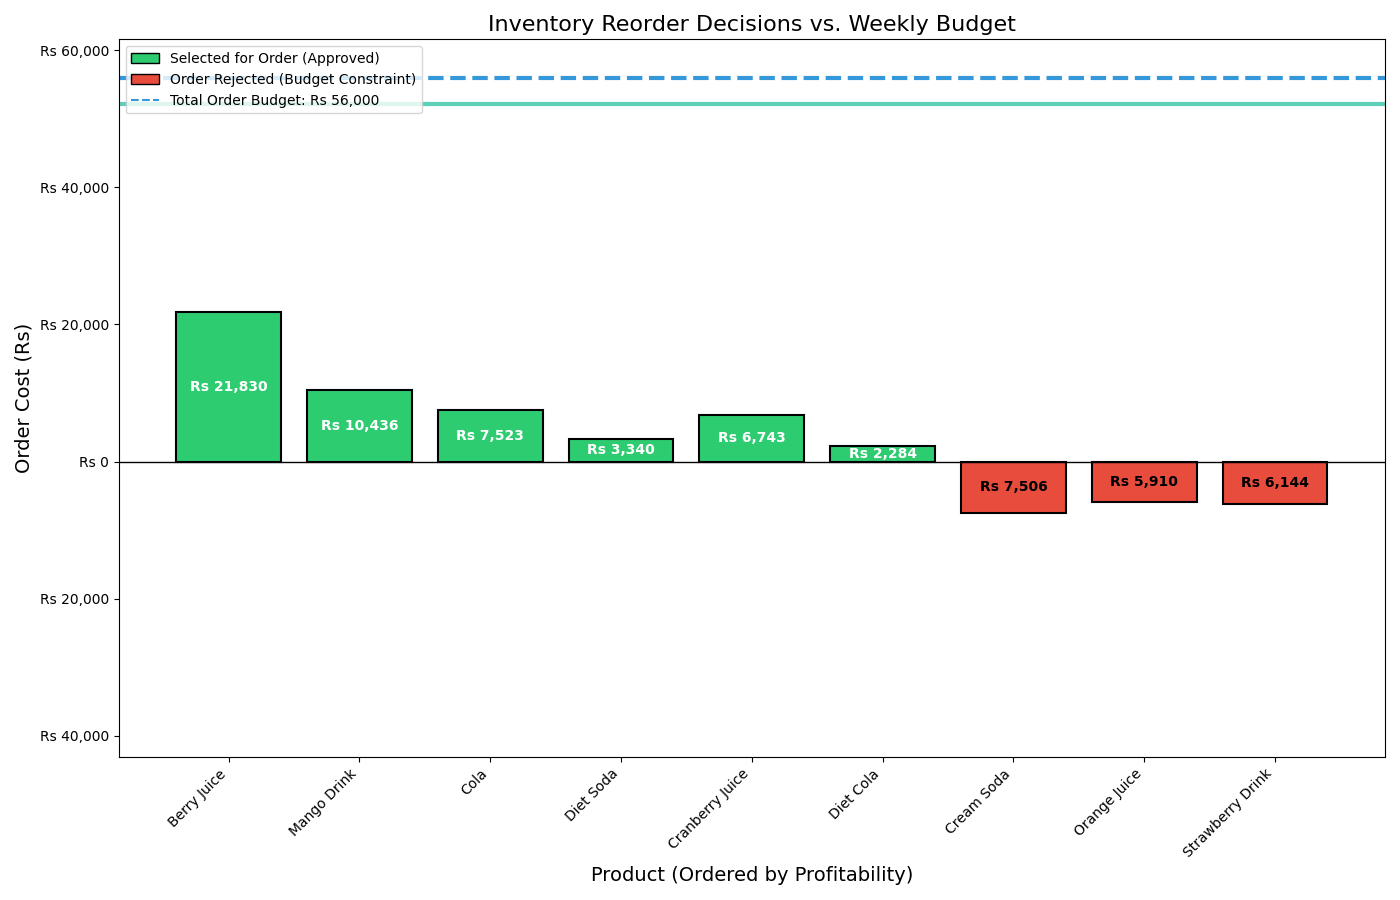
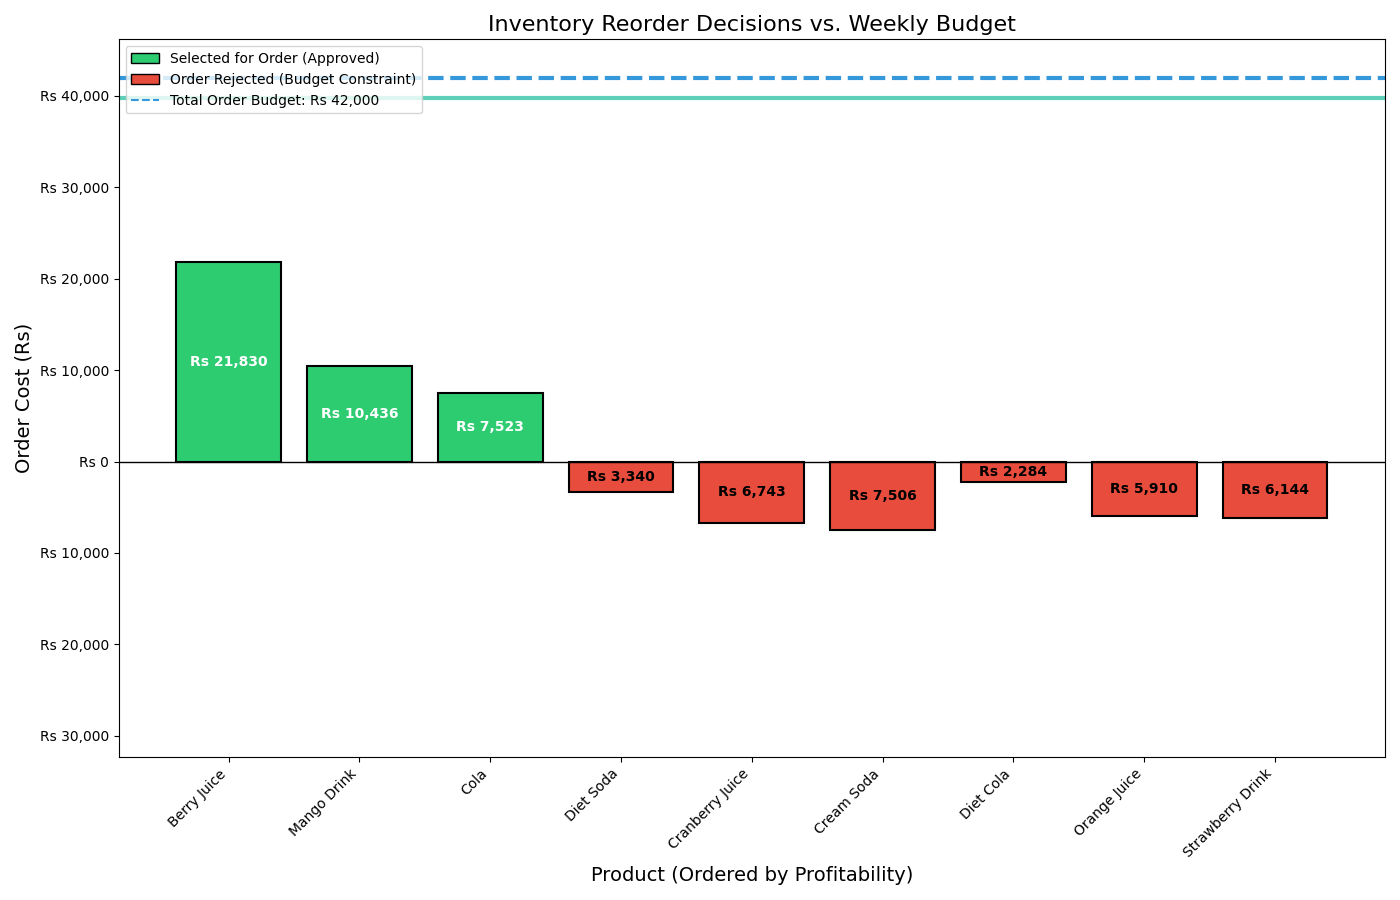
Fixed audit log not updating in postgres backend

diff --git a/psoe_optimization_engine.py b/psoe_optimization_engine.py
@@ -5,17 +5,15 @@ import sys
 import os
 from datetime import datetime
 
-# --- CRITICAL FIX: Ensure these imports match your Python file names ---
 from psoe_visualization import generate_priority_chart, generate_budget_allocation_chart, generate_optimization_comparison_chart
-from psoe_report import generate_final_report
+from psoe_report import generate_final_report 
 
 # --- 1. CONFIGURATION ---
-# !! CRITICAL: UPDATE THESE PARAMETERS (if you haven't already) !!
 DB_PARAMS = {
     "host": "localhost",
     "database": "inventory_data",
-    "user": "psoe_user",        # Use your PostgreSQL application user
-    "password": "psoe_pass123"  # Use your actual password
+    "user": "psoe_user",        
+    "password": "psoe_pass123"  
 }
 
 # --- 2. OOP Implementation (Product Class) ---
@@ -27,14 +25,14 @@ class Product:
         self.name = name
         self.current_stock = int(current_stock)
         
-        # CRITICAL FIX: Convert Decimal from DB to float/int
+        # Convert Decimal from DB to float/int
         self.reorder_quantity = round(float(reorder_quantity)) 
         self.unit_cost = float(unit_cost)
         self.unit_price = float(unit_price)
         self.low_stock_threshold = float(low_stock_threshold)
         
-        # Derived values for DAA
-        self.order_cost = self.reorder_quantity * self.unit_cost     
+        # Derived values for Kapsack Algorithmic optimization
+        self.order_cost = self.reorder_quantity * self.unit_cost      
         self.order_value = self.reorder_quantity * (self.unit_price - self.unit_cost) 
 
     def calculate_priority_score(self):
@@ -100,48 +98,50 @@ def fetch_low_stock_products(db_params):
     return inventory_list
 
 
-def log_order_decision(db_params, product, status, budget_cost=0, run_type="OPTIMIZED"):
-    """Logs the reorder decision (SELECTED or REJECTED) to psoe_audit_log."""
-    conn = None
+def log_order_decision(conn, product, status, budget_cost=0, run_type="OPTIMIZED"):
+    """
+    Refactored to accept a persistent connection (conn) and logs the decision.
+    Does NOT commit or close the connection; that is handled in the main block.
+    """
+    if conn is None:
+        print(f"❌ FATAL: Database connection is missing for logging {product.name}.")
+        return
+
+    cursor = conn.cursor()
+    
     try:
-        conn = psycopg2.connect(**db_params)
-        cursor = conn.cursor()
-        
         log_data = (
             product.product_id, 
             float(product.reorder_quantity),
             float(budget_cost),
             status,
-            run_type # Added run_type to distinguish DAA vs Baseline
+            run_type
         )
         
-        # Updated SQL to include run_type column (assuming you added it to the audit table)
+        # SQL statement to insert the audit log entry
         sql = """
         INSERT INTO psoe_audit_log (product_id, order_quantity, budget_cost, status, run_type)
         VALUES (%s, %s, %s, %s, %s);
         """
-        cursor.execute(sql, log_data)
-        conn.commit()
+        cursor.execute(sql, log_data) 
         
     except psycopg2.Error as e:
-        print(f"❌ Error logging decision for {product.name}: {e}")
-        if conn:
-            conn.rollback()
+        # Note: Do not commit/rollback here, let the main block handle the full transaction.
+        print(f"❌ Error logging decision for {product.name}. SQL Error: {e}")
     finally:
-        if conn:
-            conn.close()
+        cursor.close()
 
 
-# --- 4. DAA Algorithm (0/1 Knapsack - Greedy Approach) ---
+# --- 4. Greedy Approach (0/1 Knapsack Algorithm) ---
 
-def run_daa_optimization(inventory_list, budget_limit):
+def run_knapsack_optimization(inventory_list, budget_limit):
     """
     Implements the Greedy 0/1 Knapsack algorithm for budgeted reordering.
     Sorts by priority_score (Profit/Cost Ratio).
     """
-    print(f"\n--- Running DAA OPTIMIZATION (Greedy Knapsack) ---")
+    print(f"\n--- Running Knapsack Algorithmic OPTIMIZATION ---")
     
-    # Step 1: Sort by Greedy Choice (Priority Score: Profit/Cost) -> OPTIMAL
+    # Sort by Greedy Choice (Priority Score: Profit/Cost)
     sorted_list = sorted(inventory_list, key=lambda item: item.calculate_priority_score(), reverse=True)
 
     current_budget = budget_limit
@@ -156,14 +156,11 @@ def run_daa_optimization(inventory_list, budget_limit):
             current_budget -= cost
             total_cost_spent += cost
             total_expected_profit += item.order_value
-            # Log only the final OPTIMIZED results
-            # log_order_decision(DB_PARAMS, item, "SELECTED", cost, "OPTIMIZED") 
         else:
             pass
-            # log_order_decision(DB_PARAMS, item, "REJECTED", 0, "OPTIMIZED")
             
     # Return the key metrics for comparison
-    print(f"  ✅ DAA Optimization Complete. Profit: Rs {total_expected_profit:,.2f}, Cost: Rs {total_cost_spent:,.2f}")
+    print(f"  ✅ Knapsack Algorithmic Optimization Complete. Profit: Rs {total_expected_profit:,.2f}, Cost: Rs {total_cost_spent:,.2f}")
     return total_expected_profit, total_cost_spent
 
 
@@ -174,7 +171,7 @@ def run_baseline_optimization(inventory_list, budget_limit):
     """
     print(f"\n--- Running BASELINE OPTIMIZATION (Cheapest First) ---")
     
-    # Step 1: Sort by non-optimal choice (Cost, ascending) -> BASELINE
+    # Sort by non-optimal choice (Cost, ascending)
     sorted_list = sorted(inventory_list, key=lambda item: item.order_cost, reverse=False)
 
     current_budget = budget_limit
@@ -189,10 +186,8 @@ def run_baseline_optimization(inventory_list, budget_limit):
             current_budget -= cost
             total_cost_spent += cost
             total_expected_profit += item.order_value
-            # log_order_decision(DB_PARAMS, item, "SELECTED", cost, "BASELINE") 
         else:
             pass
-            # log_order_decision(DB_PARAMS, item, "REJECTED", 0, "BASELINE")
             
     # Return the key metrics for comparison
     print(f"  ❌ Baseline Complete. Profit: Rs {total_expected_profit:,.2f}, Cost: Rs {total_cost_spent:,.2f}")
@@ -231,61 +226,72 @@ if __name__ == '__main__':
     # Convert list of Product objects to DataFrame for easy manipulation
     df_all = pd.DataFrame([item.get_dict() for item in inventory_items])
 
-    # 3. Run BOTH Optimization Models for Comparison
-    # We must use a DEEP COPY of the inventory_items for the DAA to ensure the list is clean
+    # 3. Run BOTH Optimization Models for Comparison (No logging yet)
     
     # A. Run OPTIMIZED (Greedy Knapsack)
-    optimized_profit, optimized_cost = run_daa_optimization(inventory_items.copy(), DAILY_BUDGET)
+    optimized_profit, optimized_cost = run_knapsack_optimization(inventory_items.copy(), DAILY_BUDGET)
     
     # B. Run BASELINE (Cheapest First)
     baseline_profit, baseline_cost = run_baseline_optimization(inventory_items.copy(), DAILY_BUDGET)
     
-    # 4. Run the DAA Optimization a third time to get the individual selected/rejected lists for the Diverging Chart
-    # This is slightly redundant but necessary to get the item lists (not just the totals)
     
-    # NOTE: The original run_daa_optimization in previous versions returned the lists and totals.
-    # To keep the optimization logic clear and separate, we'll revert to the list-returning structure
-    # for the FINAL run that logs to DB and generates the diverging chart.
+    # 4. Run the Knapsack Algorithmic Optimization a third time for FINAL LOGGING and Reporting
+    print("\n--- Running Final Knapsack Algorithmic Allocation for Detailed Reporting & AUDIT LOGGING ---")
     
-    # We will modify run_daa_optimization to return lists and totals.
+    log_conn = None # Initialize connection outside try block
     
-    # --- Re-running final optimization to get detailed lists (Selected/Rejected) ---
-    print("\n--- Running Final DAA Allocation for Detailed Reporting ---")
-    
-    # Reset inventory_items to original data for the final run
-    final_inventory = fetch_low_stock_products(DB_PARAMS)
-    final_inventory.sort(key=lambda item: item.calculate_priority_score(), reverse=True)
-    
-    selected = []
-    rejected = []
-    current_budget = DAILY_BUDGET
-    total_cost_spent_final = 0
-    total_expected_profit_final = 0
-    
-    for item in final_inventory:
-        cost = item.order_cost
-        if cost <= current_budget:
-            selected.append(item)
-            current_budget -= cost
-            total_cost_spent_final += cost
-            total_expected_profit_final += item.order_value
-            log_order_decision(DB_PARAMS, item, "SELECTED", cost, "OPTIMIZED")
-        else:
-            rejected.append(item)
-            log_order_decision(DB_PARAMS, item, "REJECTED", 0, "OPTIMIZED")
+    try:
+        # Establish a single connection for the entire logging process
+        log_conn = psycopg2.connect(**DB_PARAMS)
+        
+        # Sort the final inventory list by priority score
+        final_inventory = sorted(inventory_items.copy(), key=lambda item: item.calculate_priority_score(), reverse=True)
+        
+        selected = []
+        rejected = []
+        current_budget = DAILY_BUDGET
+        total_cost_spent_final = 0
+        total_expected_profit_final = 0
+        
+        for item in final_inventory:
+            cost = item.order_cost
+            if cost <= current_budget:
+                selected.append(item)
+                current_budget -= cost
+                total_cost_spent_final += cost
+                total_expected_profit_final += item.order_value
+                # Log using the single, open connection
+                log_order_decision(log_conn, item, "SELECTED", cost, "OPTIMIZED")
+            else:
+                rejected.append(item)
+                # Log using the single, open connection
+                log_order_decision(log_conn, item, "REJECTED", 0, "OPTIMIZED")
+                
+        # Commit all logs in one transaction after the loop finishes
+        log_conn.commit()
+        print(f"✅ Final Knapsack algorithmic Allocation Complete. {len(selected)} items selected and committed to psoe_audit_log.")
+
+    except psycopg2.Error as e:
+        print(f"❌ FATAL ERROR DURING LOGGING TRANSACTION: {e}")
+        if log_conn:
+            log_conn.rollback()
+            print("Audit log transaction rolled back.")
+        sys.exit(1)
+
+    finally:
+        if log_conn:
+            log_conn.close()
             
-    print(f"✅ Final DAA Allocation Complete. {len(selected)} items selected.")
-    
     
     print("\n--- Generating Final Visualizations ---")
     
     # 5. Generate Visualizations
     try:
-        # Image 1: Optimized vs. Baseline Comparison (The new visual you requested)
+        # Image 1: Optimized vs. Baseline Comparison
         generate_optimization_comparison_chart(optimized_profit, baseline_profit, optimized_cost, baseline_cost)
         print("Image 1: 'optimization_comparison_chart.png' saved (Value Proof).")
 
-        # Image 2: Budget Allocation Chart (Diverging Visual, now using final run data)
+        # Image 2: Budget Allocation Chart
         generate_budget_allocation_chart(selected, rejected, DAILY_BUDGET, total_cost_spent_final)
         print("Image 2: 'budget_allocation_diverging_chart.png' saved (Decision Flow).")
         

diff --git a/psoe_report.md b/psoe_report.md
@@ -1,8 +1,8 @@
 # PSOE Optimization Report
 
-**Generated On:** 2025-10-24 21:11:05
+**Generated On:** 2025-10-25 11:27:04
 **Total Initial Low-Stock Items:** 9
-**Weekly Budget Provided:** **Rs 56000.00**
+**Weekly Budget Provided:** **Rs 42000.00**
 
 ---
 
@@ -12,11 +12,11 @@ The Procedural Stockflow Optimization Engine (PSOE) utilized the Greedy Knapsack
 
 |               Metric                   |        Value   |
 | :---                                   | :---           |
-| **Total Cost Spent**                   | **Rs 52156.60**|
-| **Remaining Budget**                   | **Rs 3843.40** |
-| **Total Expected Profit**              | **Rs 27911.90**|
-| **Items Selected for Reorder**         | 6              |
-| **Items Rejected (Budget Constraint)** | 3              |
+| **Total Cost Spent**                   | **Rs 39789.00**|
+| **Remaining Budget**                   | **Rs 2211.00** |
+| **Total Expected Profit**              | **Rs 24223.50**|
+| **Items Selected for Reorder**         | 3              |
+| **Items Rejected (Budget Constraint)** | 6              |
 
 ---
 
@@ -45,14 +45,11 @@ The following table shows the explicit ranking of all low-stock items. The optim
 
 These products were approved for reordering as their individual cost was within the remaining budget, prioritized by their high Profit/Cost ratio.
 
-| Product         |   Order Qty (Avg Monthly Sales) |   Budget Cost |   Expected Profit |
-|:----------------|--------------------------------:|--------------:|------------------:|
-| Berry Juice     |                            8085 |       21829.5 |           14553   |
-| Mango Drink     |                            5352 |       10436.4 |            5619.6 |
-| Cola            |                            5787 |        7523.1 |            4050.9 |
-| Diet Soda       |                            2386 |        3340.4 |            1431.6 |
-| Cranberry Juice |                            8429 |        6743.2 |            1685.8 |
-| Diet Cola       |                            2855 |        2284   |             571   |
+| Product     |   Order Qty (Avg Monthly Sales) |   Budget Cost |   Expected Profit |
+|:------------|--------------------------------:|--------------:|------------------:|
+| Berry Juice |                            8085 |       21829.5 |           14553   |
+| Mango Drink |                            5352 |       10436.4 |            5619.6 |
+| Cola        |                            5787 |        7523.1 |            4050.9 |
 ---
 
 ## 4. Rejected Items (Budget Constraint)
@@ -60,6 +57,9 @@ These products were approved for reordering as their individual cost was within 
 These products required reordering but their cost exceeded the remaining budget at the time the engine processed them. They should be prioritized for the next budget cycle.
 | Product          |   Required Cost |   Expected Profit |
 |:-----------------|----------------:|------------------:|
+| Diet Soda        |          3340.4 |            1431.6 |
+| Cranberry Juice  |          6743.2 |            1685.8 |
 | Cream Soda       |          7505.6 |            1876.4 |
+| Diet Cola        |          2284   |             571   |
 | Orange Juice     |          5909.6 |            1477.4 |
 | Strawberry Drink |          6144   |            1536   |
